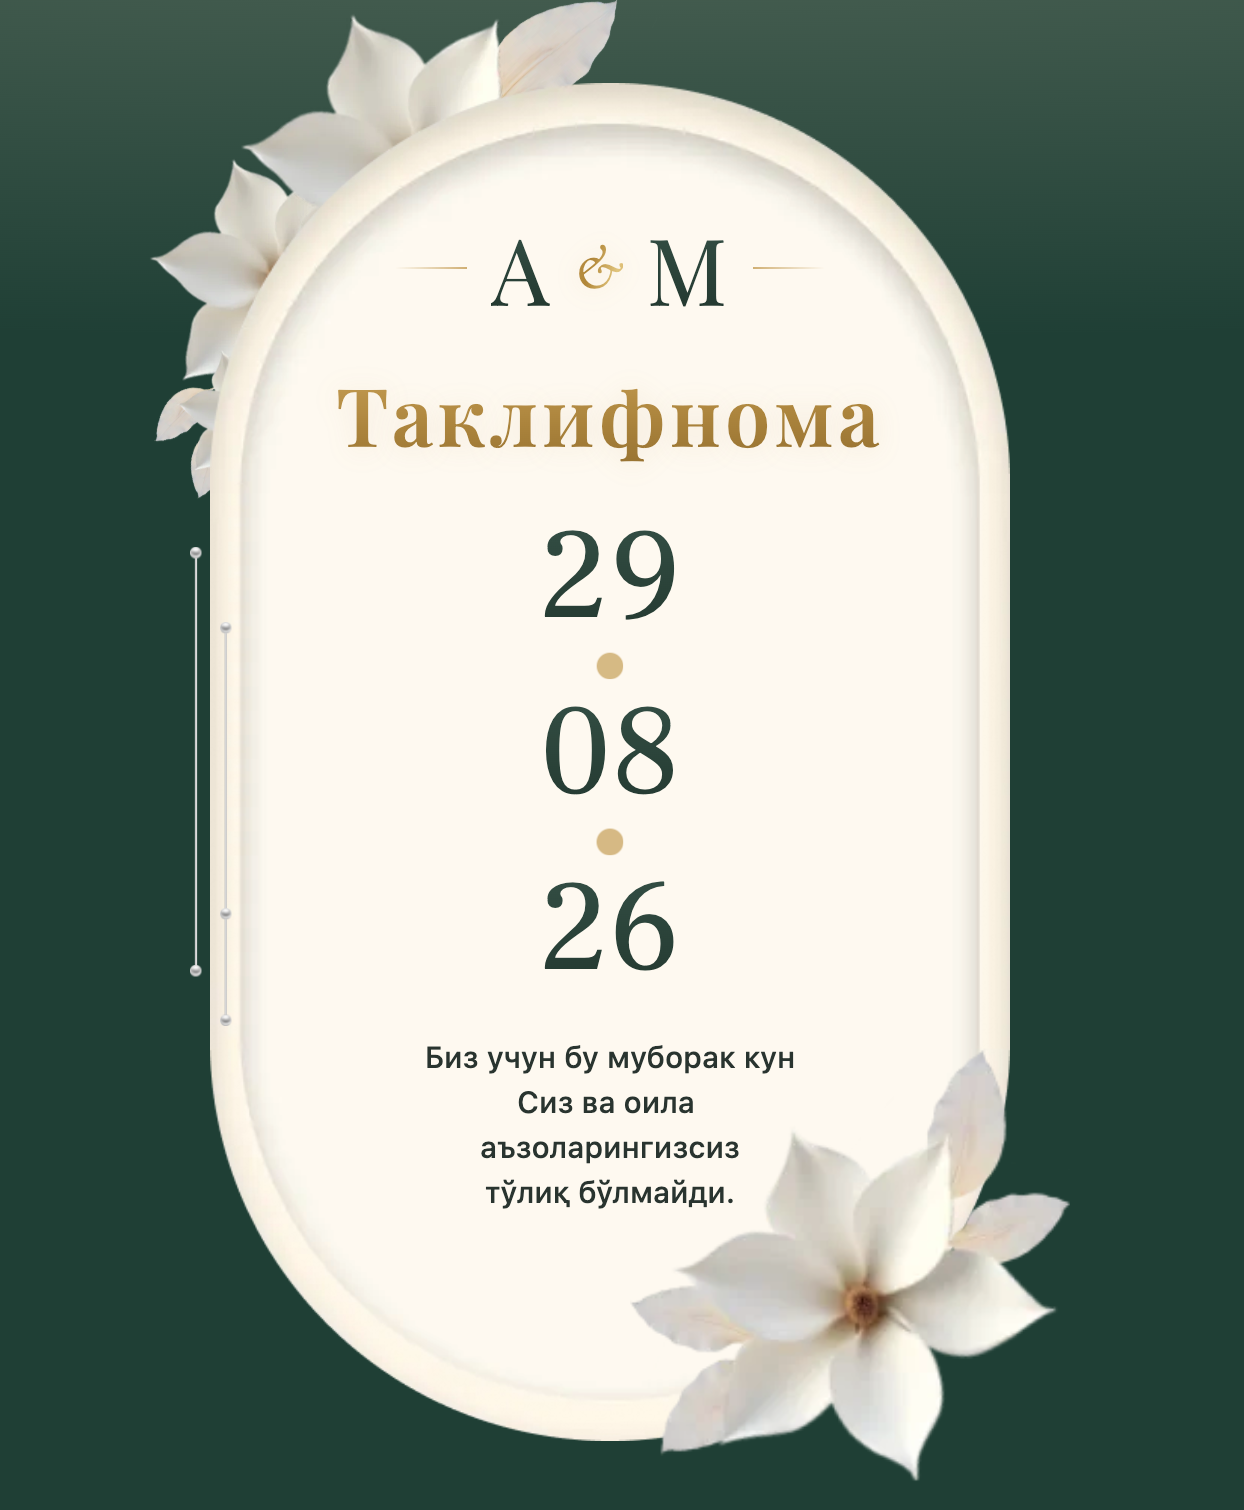
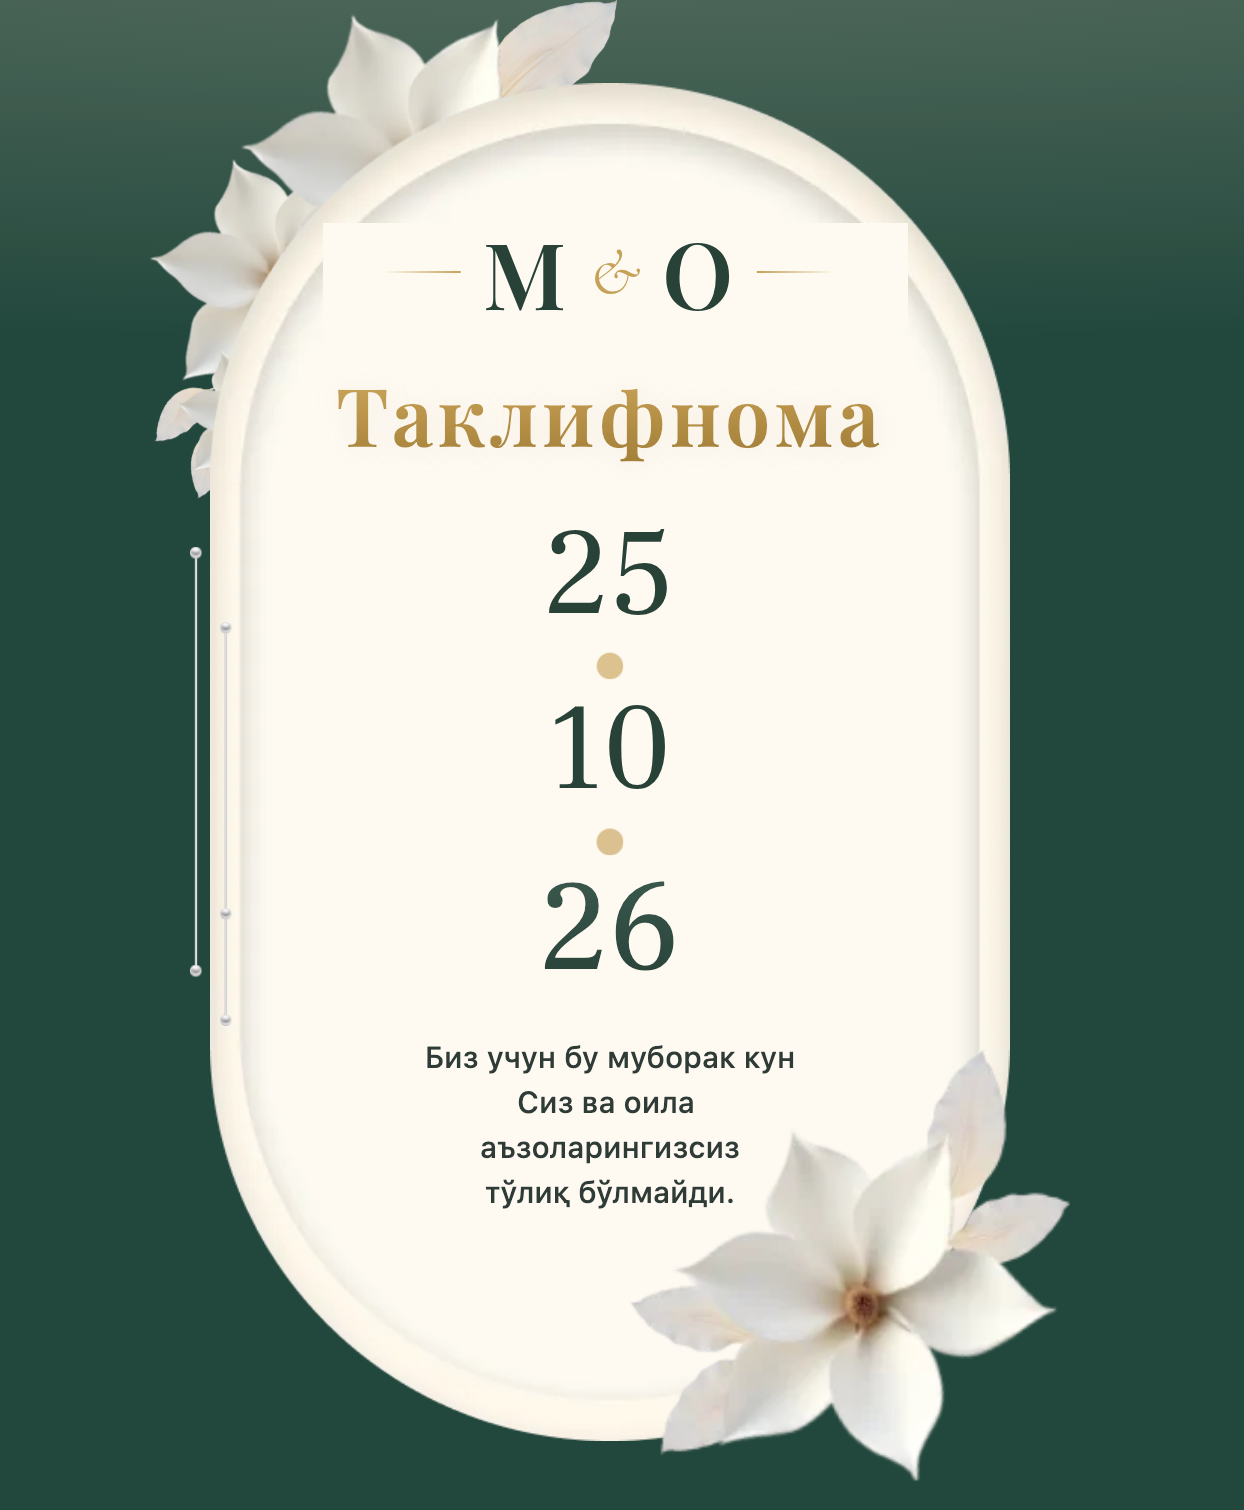
Update social preview image and fix share URLs to correct domain
- Regenerate og-image-v2.png with М & О monogram and 25·10·26 date
- Point canonical / og:url / og:image / twitter:image at
  muhammadqodir-wedding.prolabagency.com (was ahmadillo-wedding...)
- Correct og:image declared dimensions to 1244x1510

diff --git a/index.html b/index.html
@@ -6,7 +6,7 @@
 
     <!-- ============================================================= -->
     <!--  SEO / social share preview (Telegram, WhatsApp, Facebook…)   -->
-    <!--  Published at https://ahmadillo-wedding.prolabagency.com       -->
+    <!--  Published at https://muhammadqodir-wedding.prolabagency.com       -->
     <!--  (absolute HTTPS URLs — messengers ignore relative paths).    -->
     <!-- ============================================================= -->
     <title>Таклифнома • М & О</title>
@@ -15,7 +15,7 @@
       content="Никоҳ тўйимиз муносабати билан Сизни ва оила аъзоларингизни байрамимизга самимий таклиф қиламиз."
     />
     <meta name="theme-color" content="#22483d" />
-    <link rel="canonical" href="https://ahmadillo-wedding.prolabagency.com/" />
+    <link rel="canonical" href="https://muhammadqodir-wedding.prolabagency.com/" />
 
     <!-- Open Graph (Telegram, WhatsApp, Facebook, VK) -->
     <meta property="og:type" content="website" />
@@ -25,12 +25,12 @@
       property="og:description"
       content="Никоҳ тўйимиз муносабати билан Сизни ва оила аъзоларингизни байрамимизга самимий таклиф қиламиз."
     />
-    <meta property="og:url" content="https://ahmadillo-wedding.prolabagency.com/" />
-    <meta property="og:image" content="https://ahmadillo-wedding.prolabagency.com/og-image-v2.png" />
-    <meta property="og:image:secure_url" content="https://ahmadillo-wedding.prolabagency.com/og-image-v2.png" />
+    <meta property="og:url" content="https://muhammadqodir-wedding.prolabagency.com/" />
+    <meta property="og:image" content="https://muhammadqodir-wedding.prolabagency.com/og-image-v2.png" />
+    <meta property="og:image:secure_url" content="https://muhammadqodir-wedding.prolabagency.com/og-image-v2.png" />
     <meta property="og:image:type" content="image/png" />
-    <meta property="og:image:width" content="1022" />
-    <meta property="og:image:height" content="1264" />
+    <meta property="og:image:width" content="1244" />
+    <meta property="og:image:height" content="1510" />
     <meta property="og:image:alt" content="Таклифнома — М & О" />
     <meta property="og:locale" content="ru_RU" />
 
@@ -41,7 +41,7 @@
       name="twitter:description"
       content="Никоҳ тўйимиз муносабати билан Сизни ва оила аъзоларингизни байрамимизга самимий таклиф қиламиз."
     />
-    <meta name="twitter:image" content="https://ahmadillo-wedding.prolabagency.com/og-image-v2.png" />
+    <meta name="twitter:image" content="https://muhammadqodir-wedding.prolabagency.com/og-image-v2.png" />
     <link rel="preconnect" href="https://fonts.googleapis.com" />
     <link rel="preconnect" href="https://fonts.gstatic.com" crossorigin />
     <link
